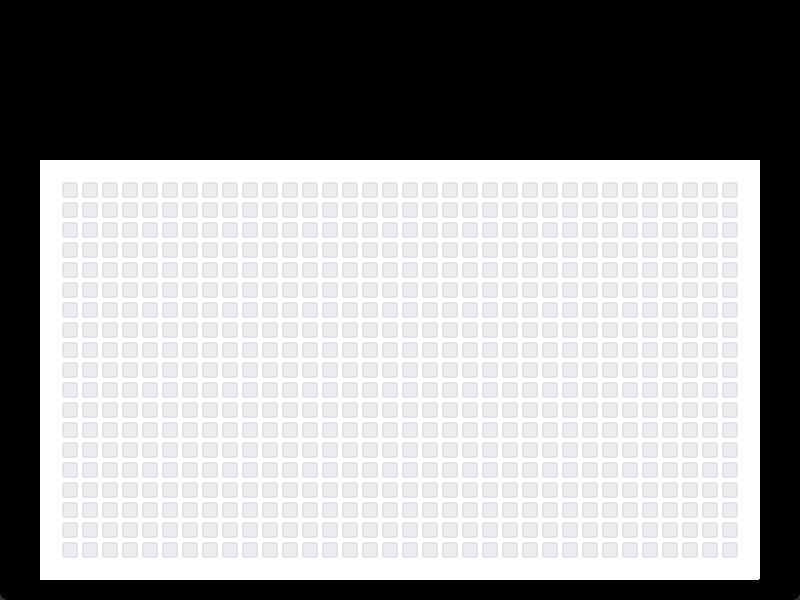
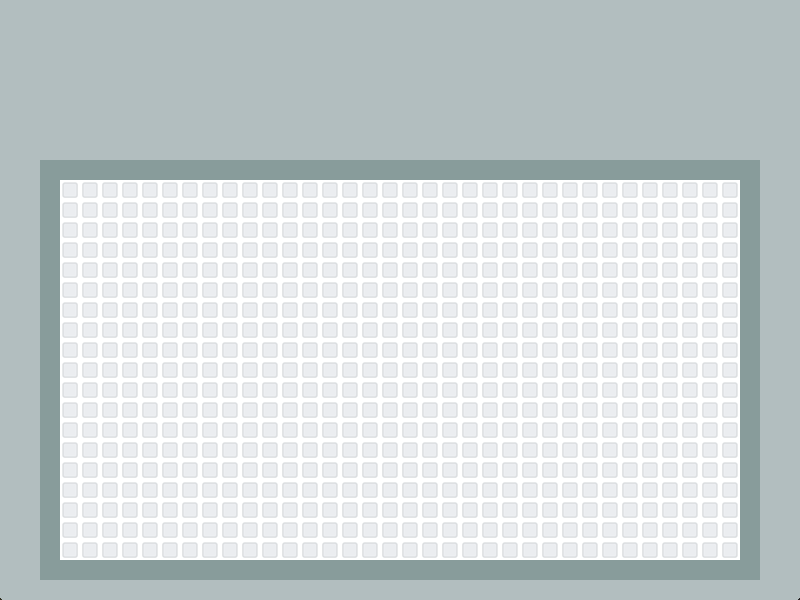
Changed background, added temporary first screen picture

diff --git a/game/game.go b/game/game.go
@@ -7,6 +7,7 @@ import (
 	"github.com/hajimehoshi/ebiten/v2/ebitenutil"
 	"github.com/hajimehoshi/ebiten/v2/inpututil"
 	"github.com/hajimehoshi/ebiten/v2/text"
+	"golang.org/x/image/colornames"
 	"golang.org/x/image/font/basicfont"
 	_ "image/png"
 	"log"
@@ -18,15 +19,22 @@ type Game struct {
 	snake         *objects.Snake
 	isRunning     bool
 	isPaused      bool
+	isFirstScreen bool
 	maxSnakeSpeed int
 	currentSpeed  int
 	currentScore  int
 	maxScore      int
 	background    *ebiten.Image
+	firstScreen   *ebiten.Image
 }
 
 func NewGame() *Game {
 	img, _, err := ebitenutil.NewImageFromFile("assets/background.png")
+	if err != nil {
+		log.Fatal(err)
+	}
+
+	first_screen, _, err := ebitenutil.NewImageFromFile("assets/first_screen.png")
 	if err != nil {
 		log.Fatal(err)
 	}
@@ -36,15 +44,24 @@ func NewGame() *Game {
 		snake:         objects.NewSnake(),
 		isRunning:     true,
 		isPaused:      false,
+		isFirstScreen: true,
 		maxSnakeSpeed: 10,
 		currentSpeed:  0,
 		currentScore:  0,
 		maxScore:      0,
 		background:    img,
+		firstScreen:   first_screen,
 	}
 }
 
 func (g *Game) Update() error {
+	if g.isFirstScreen == true {
+		if inpututil.IsKeyJustPressed(ebiten.KeyEnter) {
+			g.isFirstScreen = false
+		}
+		return nil
+	}
+
 	if g.isRunning == false {
 		if inpututil.IsKeyJustPressed(ebiten.KeyR) {
 			g.Restart()
@@ -101,6 +118,11 @@ func (g *Game) Update() error {
 func (g *Game) Draw(screen *ebiten.Image) {
 	screen.DrawImage(g.background, nil)
 
+	if g.isFirstScreen == true {
+		g.FirstScreen(screen)
+		return
+	}
+
 	if g.isRunning == false {
 		g.GameOverScreen(screen)
 	}
@@ -110,15 +132,6 @@ func (g *Game) Draw(screen *ebiten.Image) {
 	}
 
 	g.DrawScoreText(screen)
-
-	for i := objects.LEFT_BORDER; i < objects.RIGHT_BORDER; i++ {
-		ebitenutil.DrawRect(screen, float64(i), float64(objects.UPPER_BORDER), objects.SQUARE_SIZE, objects.SQUARE_SIZE, objects.WHITE)
-		ebitenutil.DrawRect(screen, float64(i), float64(objects.BOTTOM_BORDER), objects.SQUARE_SIZE, objects.SQUARE_SIZE, objects.WHITE)
-	}
-	for i := objects.UPPER_BORDER; i < objects.BOTTOM_BORDER; i++ {
-		ebitenutil.DrawRect(screen, float64(objects.LEFT_BORDER), float64(i), objects.SQUARE_SIZE, objects.SQUARE_SIZE, objects.WHITE)
-		ebitenutil.DrawRect(screen, float64(objects.RIGHT_BORDER), float64(i), objects.SQUARE_SIZE, objects.SQUARE_SIZE, objects.WHITE)
-	}
 
 	options := &ebiten.DrawImageOptions{}
 	options.GeoM.Translate(float64(g.food.Point.X), float64(g.food.Point.Y))
@@ -181,12 +194,12 @@ func (g *Game) GameOverScreen(screen *ebiten.Image) {
 	scoreText := fmt.Sprintf("Your score: %d.", g.currentScore)
 	scoreBounds := text.BoundString(face, scoreText)
 	scoreTextX, scoreTextY := cx-scoreBounds.Min.X-scoreBounds.Dx()/2, cy-scoreBounds.Min.Y-scoreBounds.Dy()/2
-	text.Draw(screen, scoreText, face, scoreTextX, scoreTextY-10, objects.BLACK)
+	text.Draw(screen, scoreText, face, scoreTextX, scoreTextY-10, colornames.Black)
 
 	restartText := "Game over. Press \"R\" to restart."
 	restartBounds := text.BoundString(face, restartText)
 	restartTextX, restartTextY := cx-restartBounds.Min.X-restartBounds.Dx()/2, cy-restartBounds.Min.Y-restartBounds.Dy()/2
-	text.Draw(screen, restartText, face, restartTextX, restartTextY+10, objects.BLACK)
+	text.Draw(screen, restartText, face, restartTextX, restartTextY+10, colornames.Black)
 }
 
 func (g *Game) GamePausedScreen(screen *ebiten.Image) {
@@ -197,7 +210,7 @@ func (g *Game) GamePausedScreen(screen *ebiten.Image) {
 	cy := objects.SCREEN_HEIGHT / 2
 	x, y := cx-bounds.Min.X-bounds.Dx()/2, cy-bounds.Min.Y-bounds.Dy()/2
 
-	text.Draw(screen, restartText, face, x, y, objects.BLACK)
+	text.Draw(screen, restartText, face, x, y, colornames.Black)
 }
 
 func (g *Game) SpawnNewFood() {
@@ -226,7 +239,7 @@ func (g *Game) DrawScoreText(screen *ebiten.Image) {
 	cy := objects.UPPER_BORDER / 2
 	x, y := cx-bounds.Min.X-bounds.Dx()/2, cy-bounds.Min.Y-bounds.Dy()/2
 
-	text.Draw(screen, currentScoreText, face, x, y, objects.WHITE)
+	text.Draw(screen, currentScoreText, face, x, y, colornames.White)
 
 	bestScoreText := fmt.Sprintf("Best score: %d", g.maxScore)
 	bounds = text.BoundString(face, currentScoreText)
@@ -234,7 +247,7 @@ func (g *Game) DrawScoreText(screen *ebiten.Image) {
 	cy = objects.UPPER_BORDER / 2
 	x, y = cx-bounds.Min.X-bounds.Dx()/2, cy-bounds.Min.Y-bounds.Dy()/2
 
-	text.Draw(screen, bestScoreText, face, x, y, objects.WHITE)
+	text.Draw(screen, bestScoreText, face, x, y, colornames.White)
 }
 
 func (g *Game) StartGame() {
@@ -243,4 +256,8 @@ func (g *Game) StartGame() {
 	if err := ebiten.RunGame(g); err != nil {
 		log.Fatal(err)
 	}
+}
+
+func (g *Game) FirstScreen(screen *ebiten.Image) {
+	screen.DrawImage(g.firstScreen, nil)
 }

diff --git a/objects/consts.go b/objects/consts.go
@@ -1,9 +1,5 @@
 package objects
 
-import (
-	"golang.org/x/image/colornames"
-)
-
 const (
 	SCREEN_WIDTH  = 800
 	SCREEN_HEIGHT = 600
@@ -13,11 +9,4 @@ const (
 	RIGHT_BORDER  = SCREEN_WIDTH - LEFT_BORDER - SQUARE_SIZE
 	BOTTOM_BORDER = 560
 	UPPER_BORDER  = 160
-)
-
-var (
-	RED   = colornames.Red
-	GREEN = colornames.Green
-	WHITE = colornames.White
-	BLACK = colornames.Black
 )
